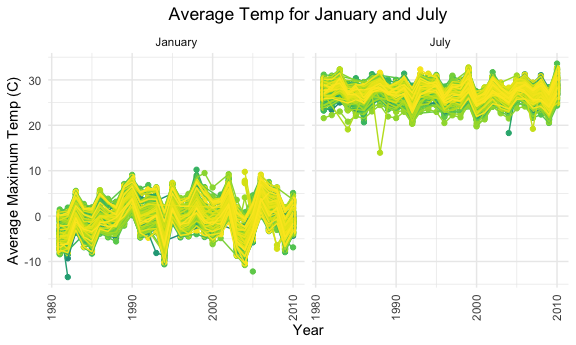
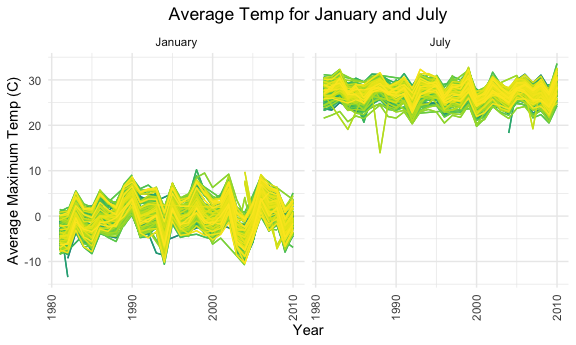
Commit Test

diff --git a/p8105_hw3_yoa2102.md b/p8105_hw3_yoa2102.md
@@ -155,8 +155,16 @@ test %>%
 activity_plot =
 accel_df %>%
   ggplot(aes(x = minute, y = activity_count, color = day)) + 
-  #geom_line(aes(group = day))
+  geom_line(aes(group = day))
   geom_smooth(aes(group = day), se = FALSE)
+```
+
+    ## mapping: group = ~day 
+    ## geom_smooth: na.rm = FALSE, orientation = NA, se = FALSE
+    ## stat_smooth: na.rm = FALSE, orientation = NA, se = FALSE
+    ## position_identity
+
+``` r
   labs(
     title = "24 hr Activity Time Courses"
     
@@ -168,14 +176,6 @@ accel_df %>%
     ## 
     ## attr(,"class")
     ## [1] "labels"
-
-``` r
-print(activity_plot)
-```
-
-    ## `geom_smooth()` using method = 'gam' and formula 'y ~ s(x, bs = "cs")'
-
-<img src="p8105_hw3_yoa2102_files/figure-gfm/unnamed-chunk-7-1.png" width="90%" />
 
 #### Description of plot
 
@@ -219,7 +219,7 @@ mutate(month = month.name[month]) %>%
 group_by(id, year, month) %>%
 summarize(mean_tmax = mean(tmax, na.rm = TRUE)) %>%
 ggplot(aes(x = year, y = mean_tmax, group = id, color = id)) +
-  geom_point() +
+  geom_line() +
   geom_path() +
   facet_grid(~ month) +
   labs(title = "Average Temp for January and July", x = "Year", y = "Average Maximum Temp (C)") +
@@ -230,7 +230,7 @@ ggplot(aes(x = year, y = mean_tmax, group = id, color = id)) +
 
     ## `summarise()` regrouping output by 'id', 'year' (override with `.groups` argument)
 
-    ## Warning: Removed 5970 rows containing missing values (geom_point).
+    ## Warning: Removed 5640 row(s) containing missing values (geom_path).
 
     ## Warning: Removed 5931 row(s) containing missing values (geom_path).
 
@@ -260,22 +260,14 @@ snow_dist =
   filter(snow > 0 & snow < 100) %>%
   ggplot(aes(x = year, y = snow)) +
   labs(
-    title = "Distribution of Snowfall Values Boxplot",
+    title = "Snowfall Values Boxplot",
     x = "Year",
     y = "Snowfall (mm)") +
   geom_boxplot(aes(group = year)) +
   theme(plot.title = element_text(hjust = 0.5))
   
-      
-  
- par(mfrow = c(1,2))
- tmaxmin
+     
+tmaxmin + snow_dist
 ```
 
 <img src="p8105_hw3_yoa2102_files/figure-gfm/unnamed-chunk-11-1.png" width="90%" />
-
-``` r
- snow_dist
-```
-
-<img src="p8105_hw3_yoa2102_files/figure-gfm/unnamed-chunk-11-2.png" width="90%" />
